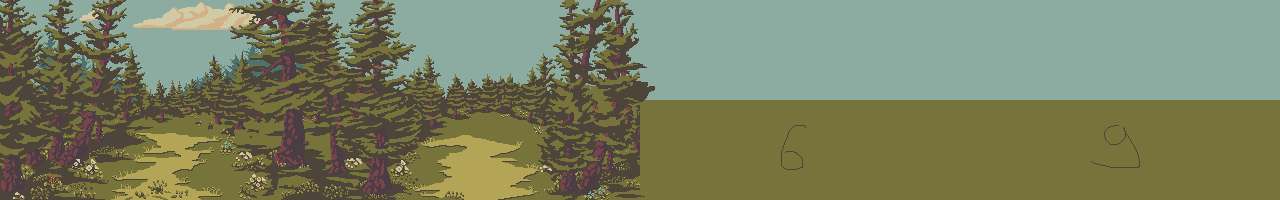
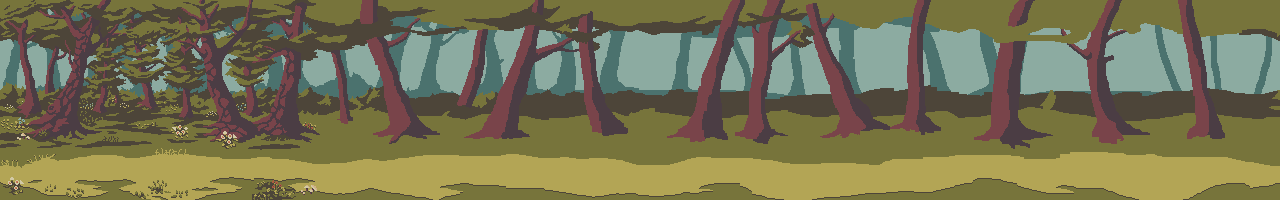
202303052248

diff --git a/src/scenes/ViewScene.ts b/src/scenes/ViewScene.ts
@@ -11,7 +11,6 @@ class ViewScene extends Phaser.Scene {
   private _background!: Phaser.GameObjects.TileSprite;
   private _foreground!: Phaser.GameObjects.TileSprite;
   private _isTurnRight: boolean;
-  private _elapsedTime: number;
 
   constructor(parent: Phaser.GameObjects.Zone) {
     super("ViewScene");
@@ -46,35 +45,35 @@ class ViewScene extends Phaser.Scene {
     this.cameras.main.setViewport(0, 0, ViewSize.width, ViewSize.height);
     this.cameras.main.setBackgroundColor("#000000");
 
-    // const forest = this.add.sprite(0, 0, "forest");
+    const forest = this.add.sprite(0, 0, "forest");
 
-    const sky = this.add.image(0, 0, "forest1");
-    this._distance = this.add.tileSprite(0, 0, 1280, 800, "forest2");
-    this._background = this.add.tileSprite(0, 0, 1280, 800, "forest3");
-    this._foreground = this.add.tileSprite(0, 0, 1280, 800, "forest4");
+    // const sky = this.add.image(0, 0, "forest1");
+    // this._distance = this.add.tileSprite(0, 0, 1280, 800, "forest2");
+    // this._background = this.add.tileSprite(0, 0, 1280, 800, "forest3");
+    // this._foreground = this.add.tileSprite(0, 0, 1280, 800, "forest4");
 
-    const wolf = new Wolf(this, ViewSize.width / 2 - 300, 590, true);
-    const wolf2 = new Wolf(this, ViewSize.width / 2 - 75, 590, true);
-    const wolf3 = new Wolf(this, ViewSize.width / 2 + 200, 590, true);
-    const wolf4 = new Wolf(this, ViewSize.width / 2 + 400, 590, true);
+    const wolf = new Wolf(this, ViewSize.width / 2 - 300, 570, true);
+    const wolf2 = new Wolf(this, ViewSize.width / 2 - 75, 570, true);
+    const wolf3 = new Wolf(this, ViewSize.width / 2 + 200, 570, true);
+    const wolf4 = new Wolf(this, ViewSize.width / 2 + 400, 570, true);
 
-    // forest.setOrigin(0);
-    // forest.setScale(4);
+    forest.setOrigin(0);
+    forest.setScale(4);
 
-    sky.setOrigin(0);
-    this._distance.setOrigin(0);
-    this._background.setOrigin(0);
-    this._foreground.setOrigin(0);
+    // sky.setOrigin(0);
+    // this._distance.setOrigin(0);
+    // this._background.setOrigin(0);
+    // this._foreground.setOrigin(0);
 
     eventHandler.on(
       "turnRight",
       () => {
         this.direction < 3 ? this.direction++ : (this.direction = 0);
-        // this.cameras.main.pan(
-        //   ViewSize.width / 2 + ViewSize.width * this.direction,
-        //   ViewSize.height / 2,
-        //   500
-        // );
+        this.cameras.main.pan(
+          ViewSize.width / 2 + ViewSize.width * this.direction,
+          ViewSize.height / 2,
+          500
+        );
         this._isTurnRight = true;
       },
       this
@@ -84,11 +83,11 @@ class ViewScene extends Phaser.Scene {
       "turnLeft",
       () => {
         this.direction > 0 ? this.direction-- : (this.direction = 3);
-        // this.cameras.main.pan(
-        //   ViewSize.width / 2 + ViewSize.width * this.direction,
-        //   ViewSize.height / 2,
-        //   500
-        // );
+        this.cameras.main.pan(
+          ViewSize.width / 2 + ViewSize.width * this.direction,
+          ViewSize.height / 2,
+          500
+        );
       },
       this
     );

diff --git a/src/game/PortraitArea.ts b/src/game/PortraitArea.ts
@@ -1,3 +1,4 @@
+import FloatMessageScene from "../scenes/FloatMessageScene";
 import Button from "../ui/common/Button";
 
 class PortraitArea {
@@ -10,7 +11,7 @@ class PortraitArea {
   public init() {
     const size = 155;
     const offsetX = 550;
-    const offsetY = 350;
+    const offsetY = 400;
     const y = this._scene.scale.gameSize.height - offsetY;
     const portraits = [
       "portrait",
@@ -23,10 +24,22 @@ class PortraitArea {
       const x = this._scene.scale.gameSize.width - offsetX + index * size;
 
       this._scene.add.image(x, y, portrait);
+      this._scene.add.image(x, y + 84, "uiMove");
+      const moveText = this._scene.add.text(
+        x - 56,
+        y + 68,
+        index === 0 ? "Move: 99/99" : "Move: 0/0",
+        {
+          font: "24px Oswald",
+          color: "#4b3d44",
+        }
+      );
+      moveText.setOrigin(0);
+
       const inventoryButton = new Button(
         this._scene,
         x - 32,
-        y + 100,
+        y + 136,
         "inventory",
         () => {},
         index !== 0
@@ -34,12 +47,27 @@ class PortraitArea {
       const bookButton = new Button(
         this._scene,
         x + 32,
-        y + 100,
+        y + 136,
         "book",
         () => {},
         index !== 0
       );
     });
+
+    const floatMessageZone = this._scene.add.zone(
+      this._scene.scale.gameSize.width - offsetX,
+      y,
+      300,
+      200
+    );
+
+    floatMessageZone.setInteractive();
+    floatMessageZone.setOrigin(0);
+
+    const floatMessageScene = new FloatMessageScene(floatMessageZone);
+
+    this._scene.scene.add(`FloatMessageScene`, floatMessageScene);
+    floatMessageScene.scene.start();
   }
 }
 

diff --git a/src/scenes/FloatMessageScene.ts b/src/scenes/FloatMessageScene.ts
@@ -1,0 +1,48 @@
+class FloatMessageScene extends Phaser.Scene {
+  private _parent: Phaser.GameObjects.Zone;
+  private _timer: number;
+
+  constructor(parent: Phaser.GameObjects.Zone) {
+    super("FloatMessageScene");
+
+    this._parent = parent;
+    this._timer = 0;
+  }
+
+  create(): void {
+    this.cameras.main.setViewport(
+      this._parent.x - 268,
+      this._parent.y - 64,
+      200,
+      128
+    );
+    this.cameras.main.setBackgroundColor("rgba(210, 201, 165, 0.9)");
+
+    const border = this.add.rectangle(0, 0, 200, 128);
+
+    border.setOrigin(0);
+    border.setStrokeStyle(4, 0x574852);
+
+    const text = this.add.text(6, 2, "Can't go that way.", {
+      font: "24px Oswald",
+      color: "#4b3d44",
+    });
+
+    this.events.on("closeFloatMessage", this.handleClose, this);
+  }
+
+  update(time: number, delta: number): void {
+    this._timer += delta;
+
+    if (this._timer > 5000) {
+      this.events.emit("closeFloatMessage");
+    }
+  }
+
+  private handleClose(): void {
+    this.scene.remove("FloatMessageScene");
+    this._parent.destroy();
+  }
+}
+
+export default FloatMessageScene;

diff --git a/src/game/map/WorldGenerator.ts b/src/game/map/WorldGenerator.ts
@@ -52,7 +52,7 @@ class WorldGenerator {
         let event = Math.floor(Math.random() * 4) as Event;
         let type = Math.floor(Math.random() * (3 + 1));
 
-        for (let i = 0; i < 4; i++) {
+        for (let i = 0; i < 2; i++) {
           if (event !== MapTileEvents.empty) {
             event = Math.floor(Math.random() * 4) as Event;
           }
@@ -68,6 +68,10 @@ class WorldGenerator {
 
         if (i === 0 || j === 0 || i === width || j === height) {
           type = MapTileTypes.mountain;
+        }
+
+        if (type === MapTileTypes.mountain) {
+          event = MapTileEvents.empty;
         }
 
         this._world.worldMaps[level].map[i][j] = new MapTile(type, event);

diff --git a/src/scenes/GameScene.ts b/src/scenes/GameScene.ts
@@ -39,6 +39,7 @@ class GameScene extends Phaser.Scene {
     this.load.image("minimapMark", `${path}/ui/minimap_mark.png`);
     this.load.image("minimapLoot", `${path}/ui/minimap_gold.png`);
     this.load.image("minimapLocation", `${path}/ui/minimap_location.png`);
+    this.load.image("uiMove", `${path}/ui/move_ui.png`);
     this.load.spritesheet("fullScreen", `${path}/ui/full_screen.png`, {
       frameWidth: 78,
       frameHeight: 78,

diff --git a/src/scenes/FloatMenuScene.ts b/src/scenes/FloatMenuScene.ts
@@ -32,14 +32,7 @@ class FloatMenuScene extends Phaser.Scene {
     border.setStrokeStyle(4, 0x574852);
 
     this.items.forEach((item: string, index: number) => {
-      const button = new TextButton(
-        this,
-        20,
-        0 + 34 * index,
-        item,
-        () => {},
-        28
-      );
+      const button = new TextButton(this, 20, 34 * index, item, () => {}, 28);
     });
 
     this.events.on(

diff --git a/src/game/NavigationArea.ts b/src/game/NavigationArea.ts
@@ -22,6 +22,10 @@ class NavigationArea {
     const size = 78;
     const offsetX = 575;
     const offsetY = 175;
+    const text = this.scene.add.text(1440, 20, "Month: 1 Week: 1 Day: 1", {
+      font: "24px Oswald",
+      color: "#4b3d44",
+    });
 
     this.scene.scene.add("MiniMapScene", miniMapScene);
     miniMapScene.scene.start();
